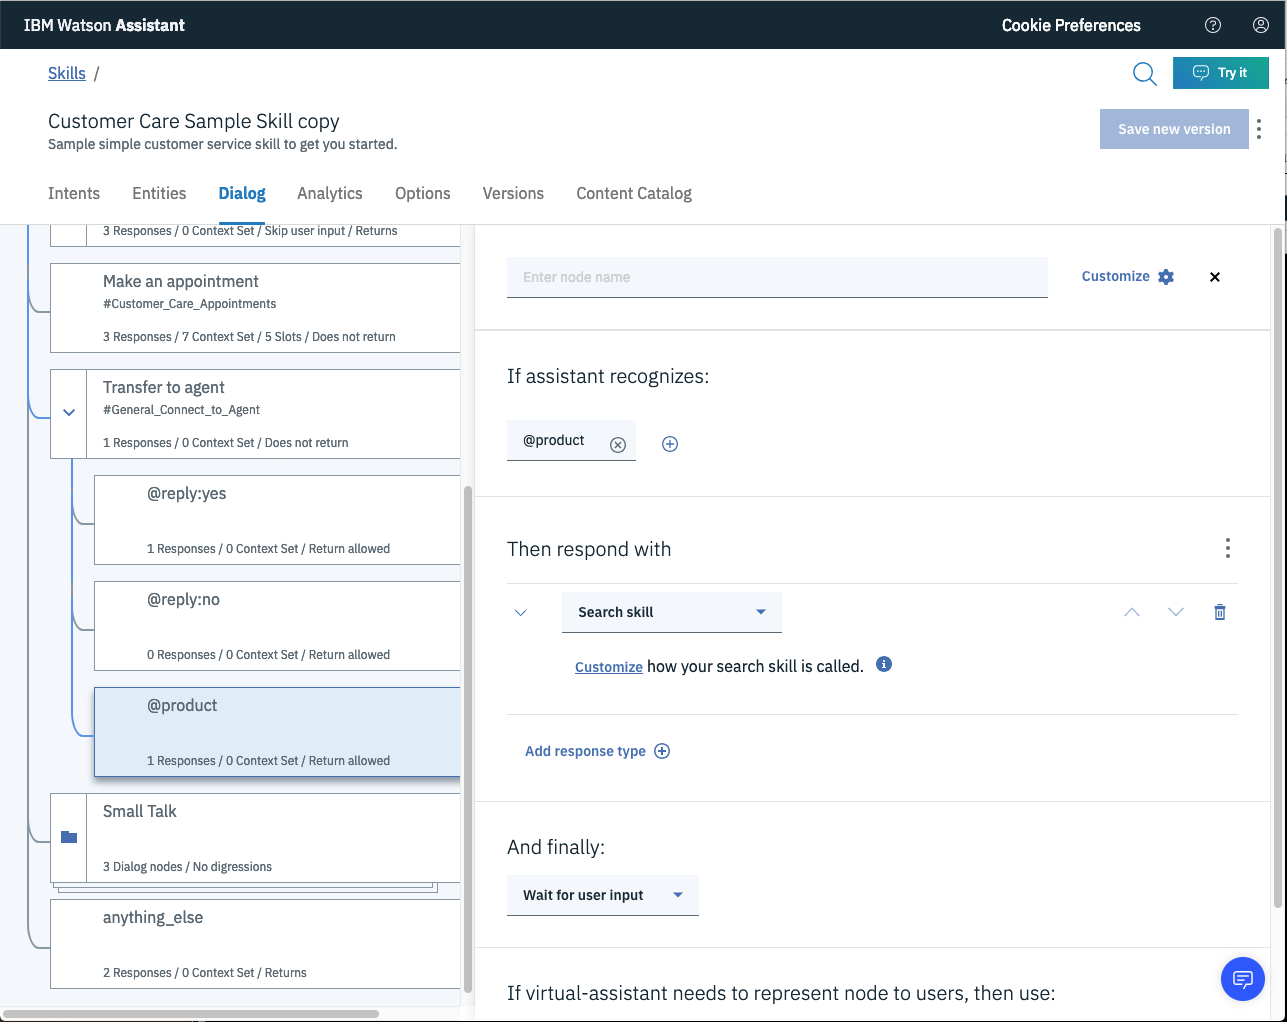
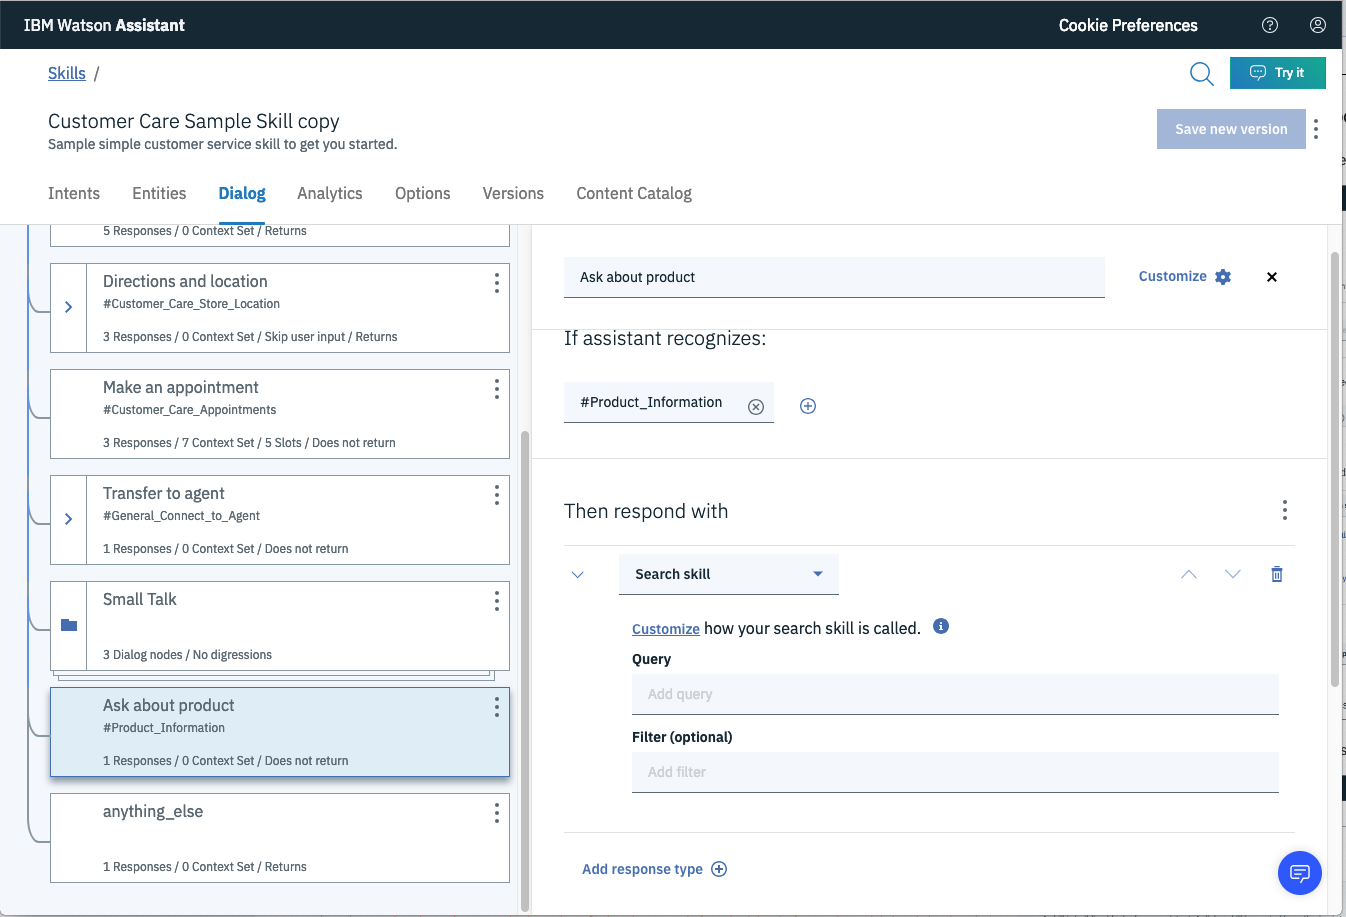
update readme

diff --git a/README.md b/README.md
@@ -28,7 +28,7 @@ If you have both, only if the dialog skill reaches "anything_else" node will it 
 
 # Steps:
 
-> Assumes completion of discovery setup described in https://github.com/rhagarty/watson-discovery-sdu-ui.
+> Assumes completion of Watson Discovery setup described in https://github.com/rhagarty/watson-discovery-sdu-ui and Watson Assistant setup described in https://github.com/rhagarty/watson-discovery-sdu-with-assistant-cloud-functions.
 
 ## Create Search Skill
 
@@ -48,15 +48,15 @@ Configure how the search will respond:
 
 ![](doc/source/images/configure-search-skill.png)
 
-Create new dialog entity named `@product` to handle our new question:
+## Invoke the Search Skill from dialog node
 
-![](doc/source/images/create-entity.png)
-
-Call out to the search skill from a dialog node when `@product` entity is detected:
+Modify the "Ask about product" dialog node to call out to the search skill:
 
 ![](doc/source/images/assign-search-skill-to-node.png)
 
-Create Assistant instance to combine dialog and search skills:
+## Create Assistant instance to combine dialog and search skills:
+
+In order to use both skills, you need to create an `Assistant` object that integrates them.
 
 ![](doc/source/images/create-assistant-to-link-skills.png)
 
